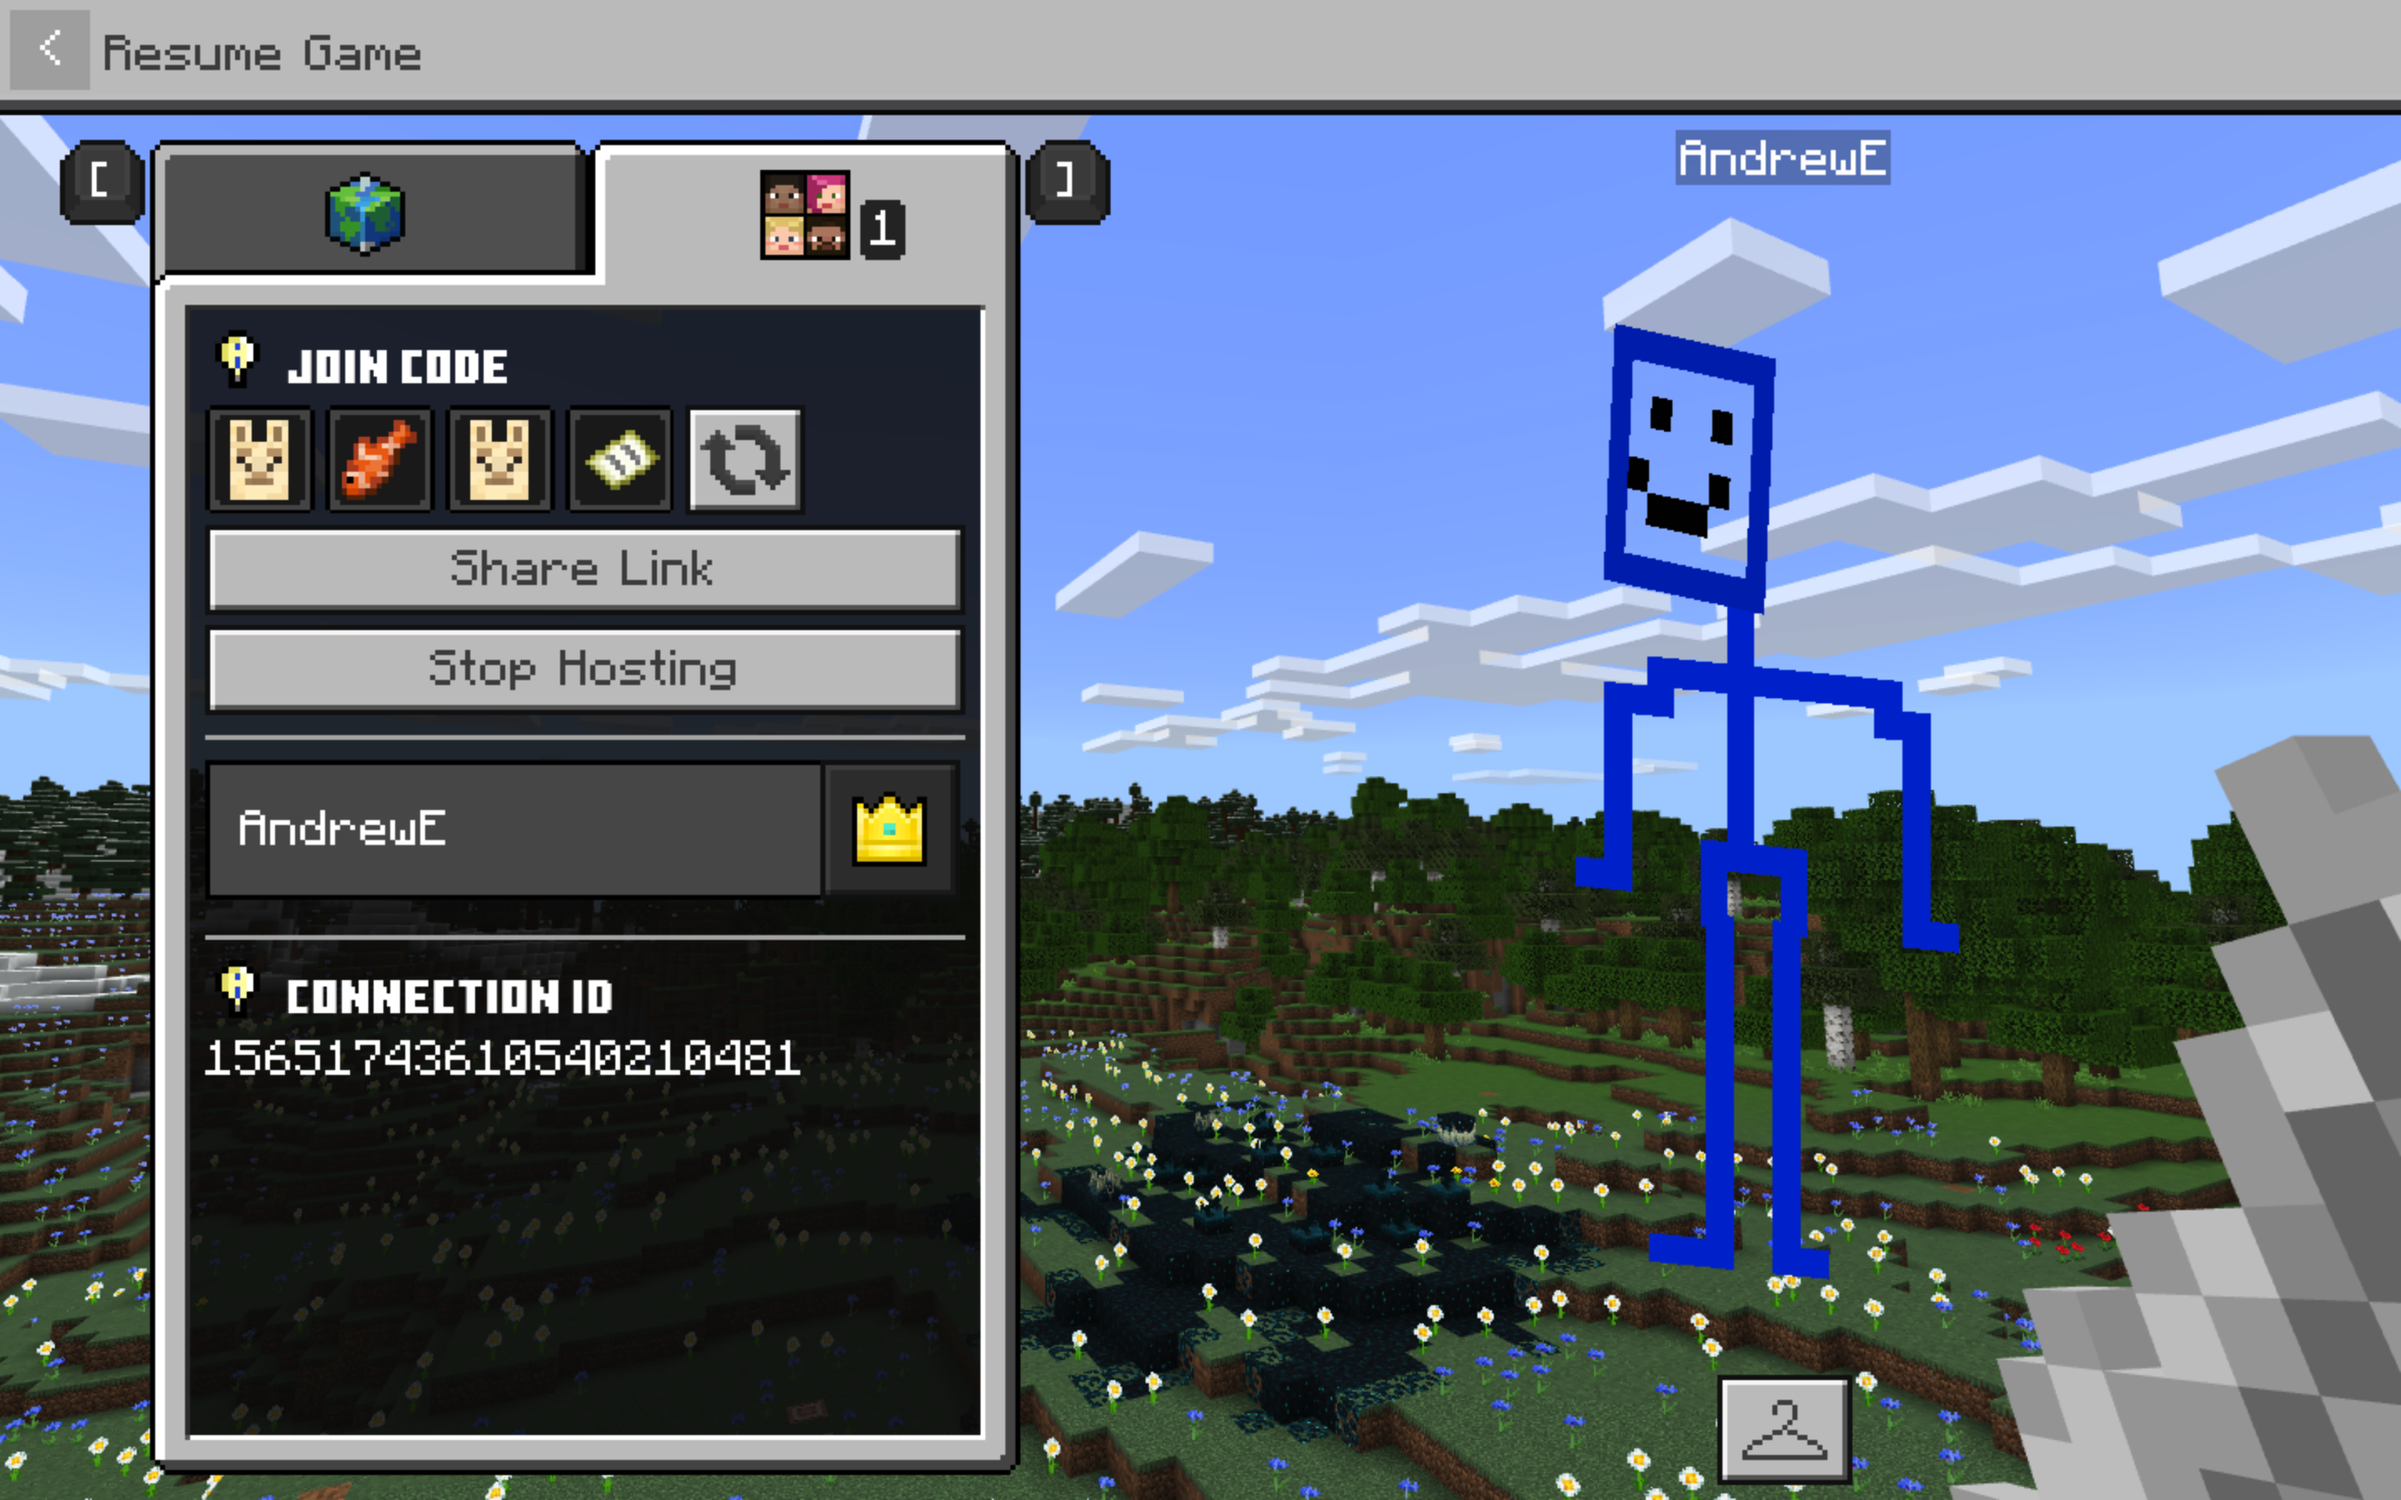
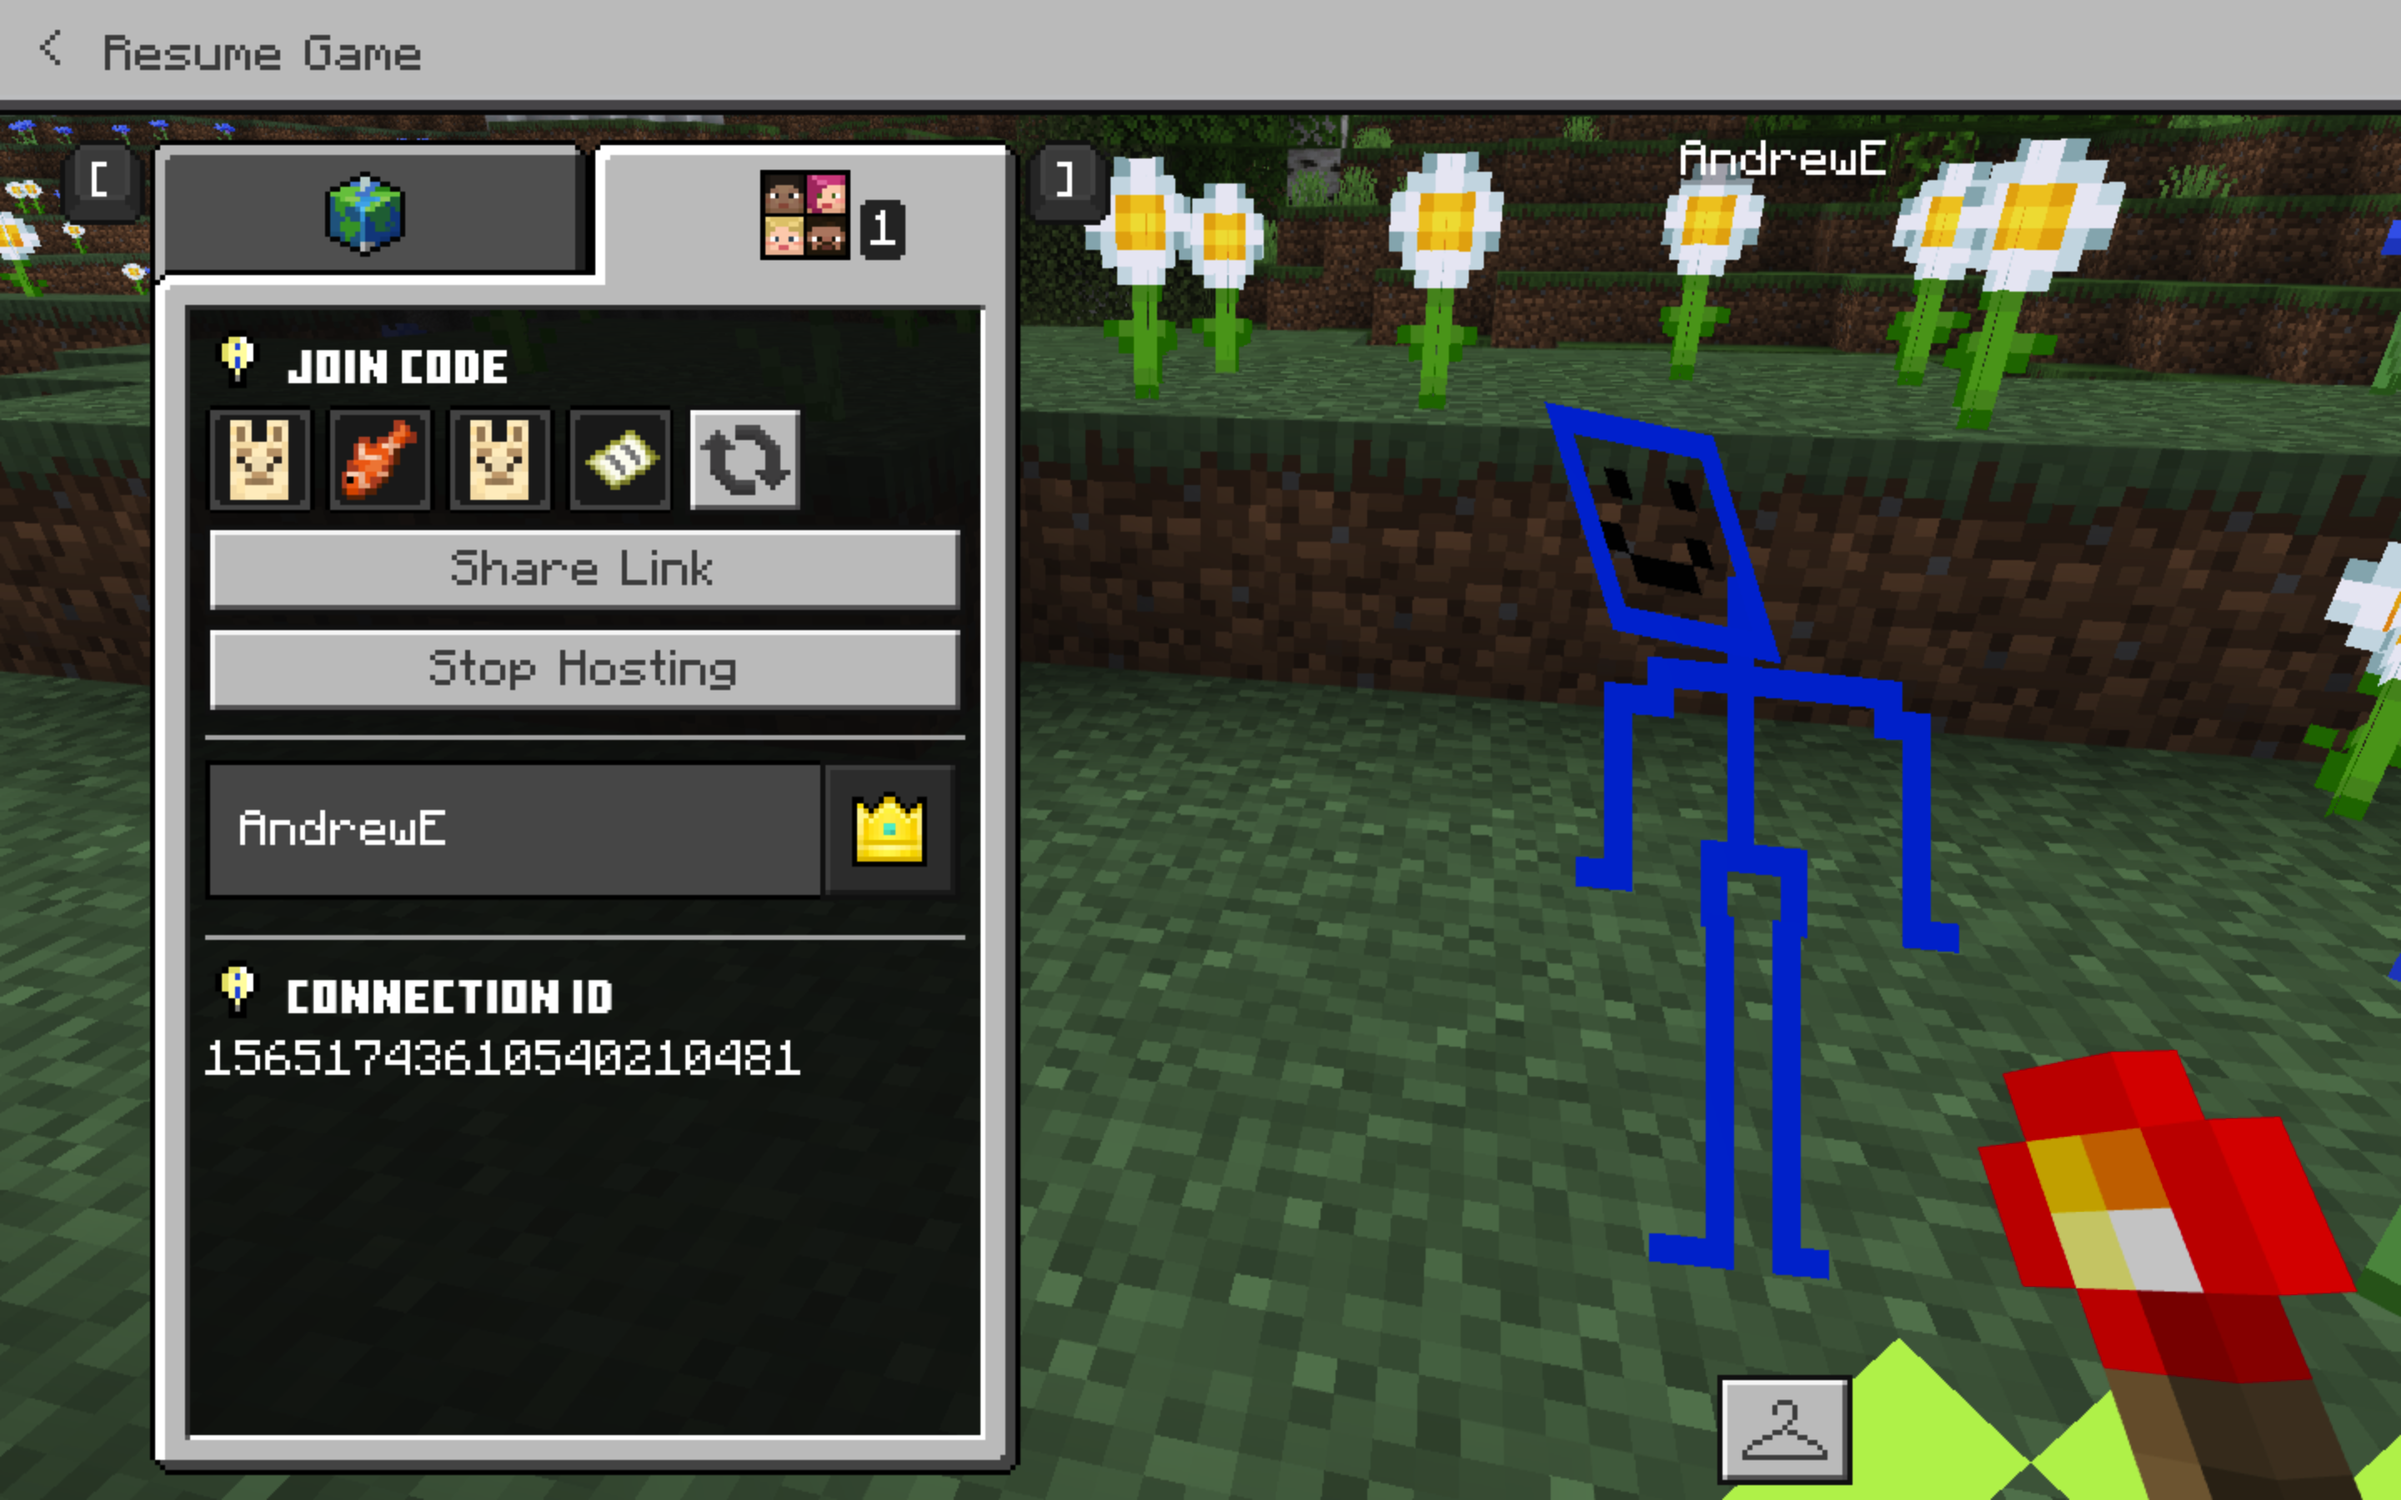
new screenshot

diff --git a/pyscript.py b/pyscript.py
@@ -1,11 +1,18 @@
 from PIL import ImageGrab
 import time
 import keyboard
+import os
 time.sleep(5)
 while True:
     screenshot = ImageGrab.grab()
     screenshot.save("screenshot.png")
     screenshot.close()
     screenshot = ImageGrab.grab(bbox=(100, 100, 500, 500))
+    os.system("cd mccodesite/mccodesite")
+    os.system("git add --all")
+    time.sleep(2.5)
+    os.system("git commit -m \"new screenshot\"")
+    time.sleep(2.5)
+    os.system("git push")
     time.sleep(3600)
 
